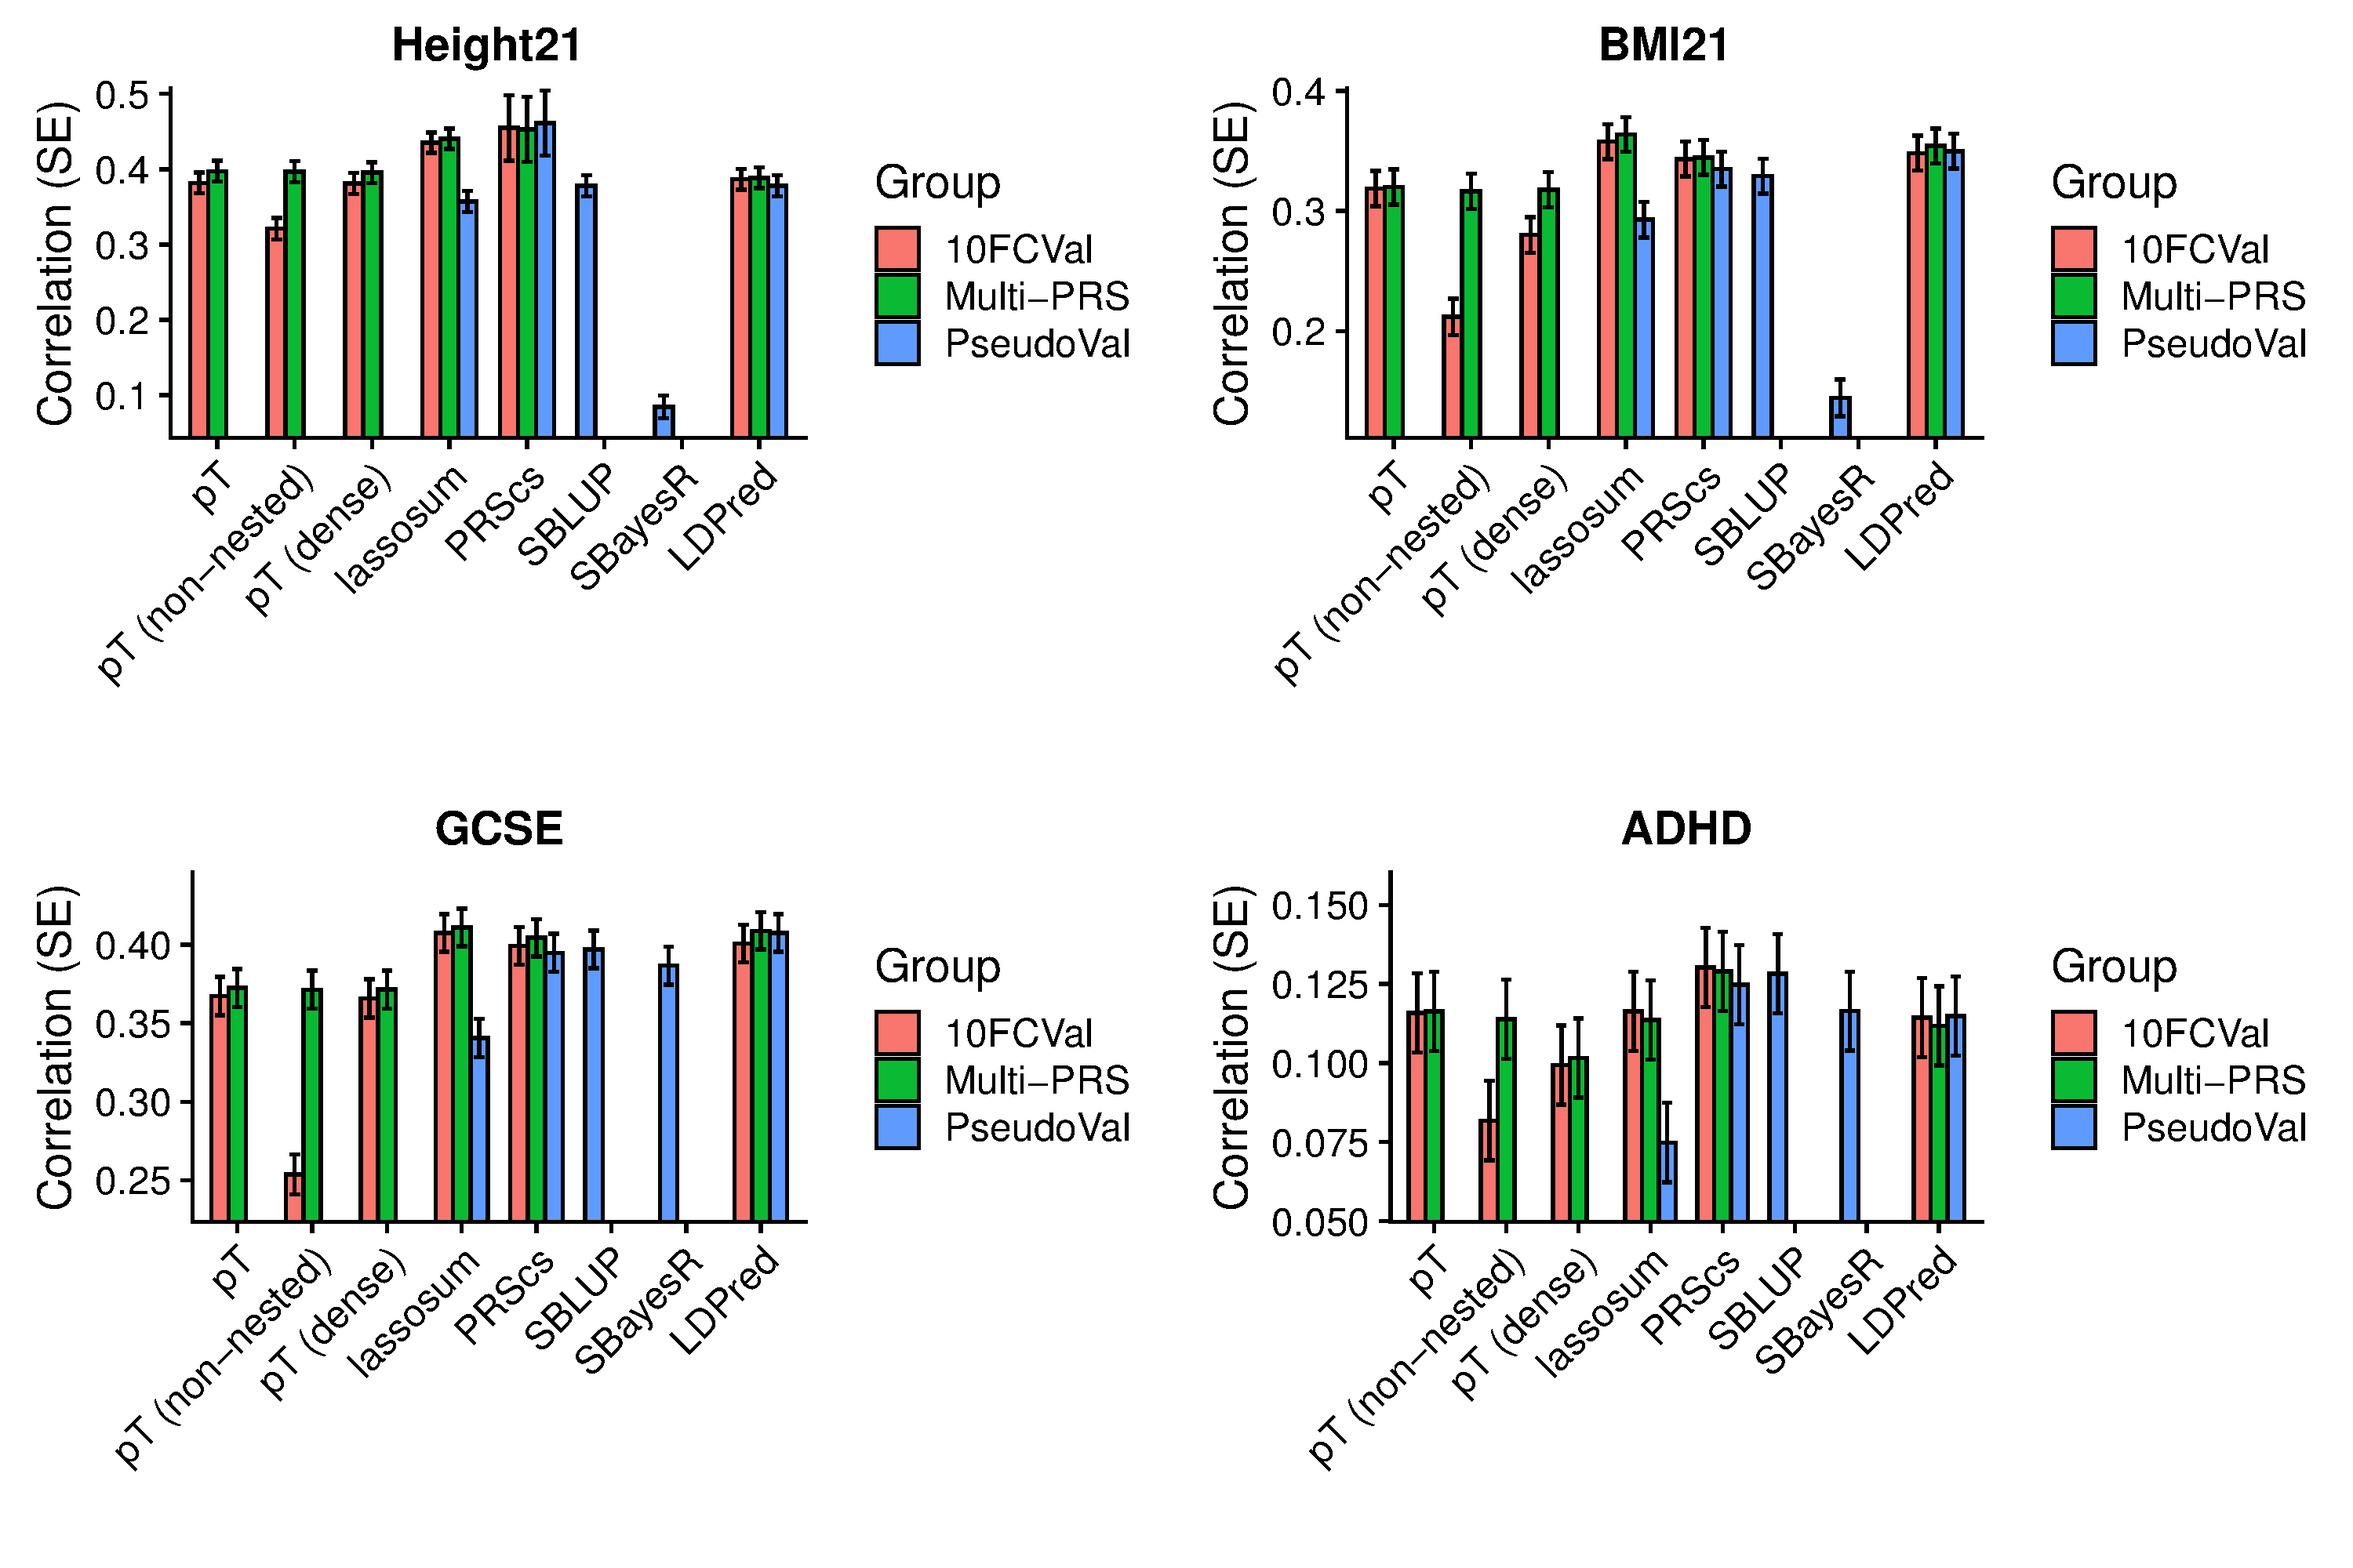
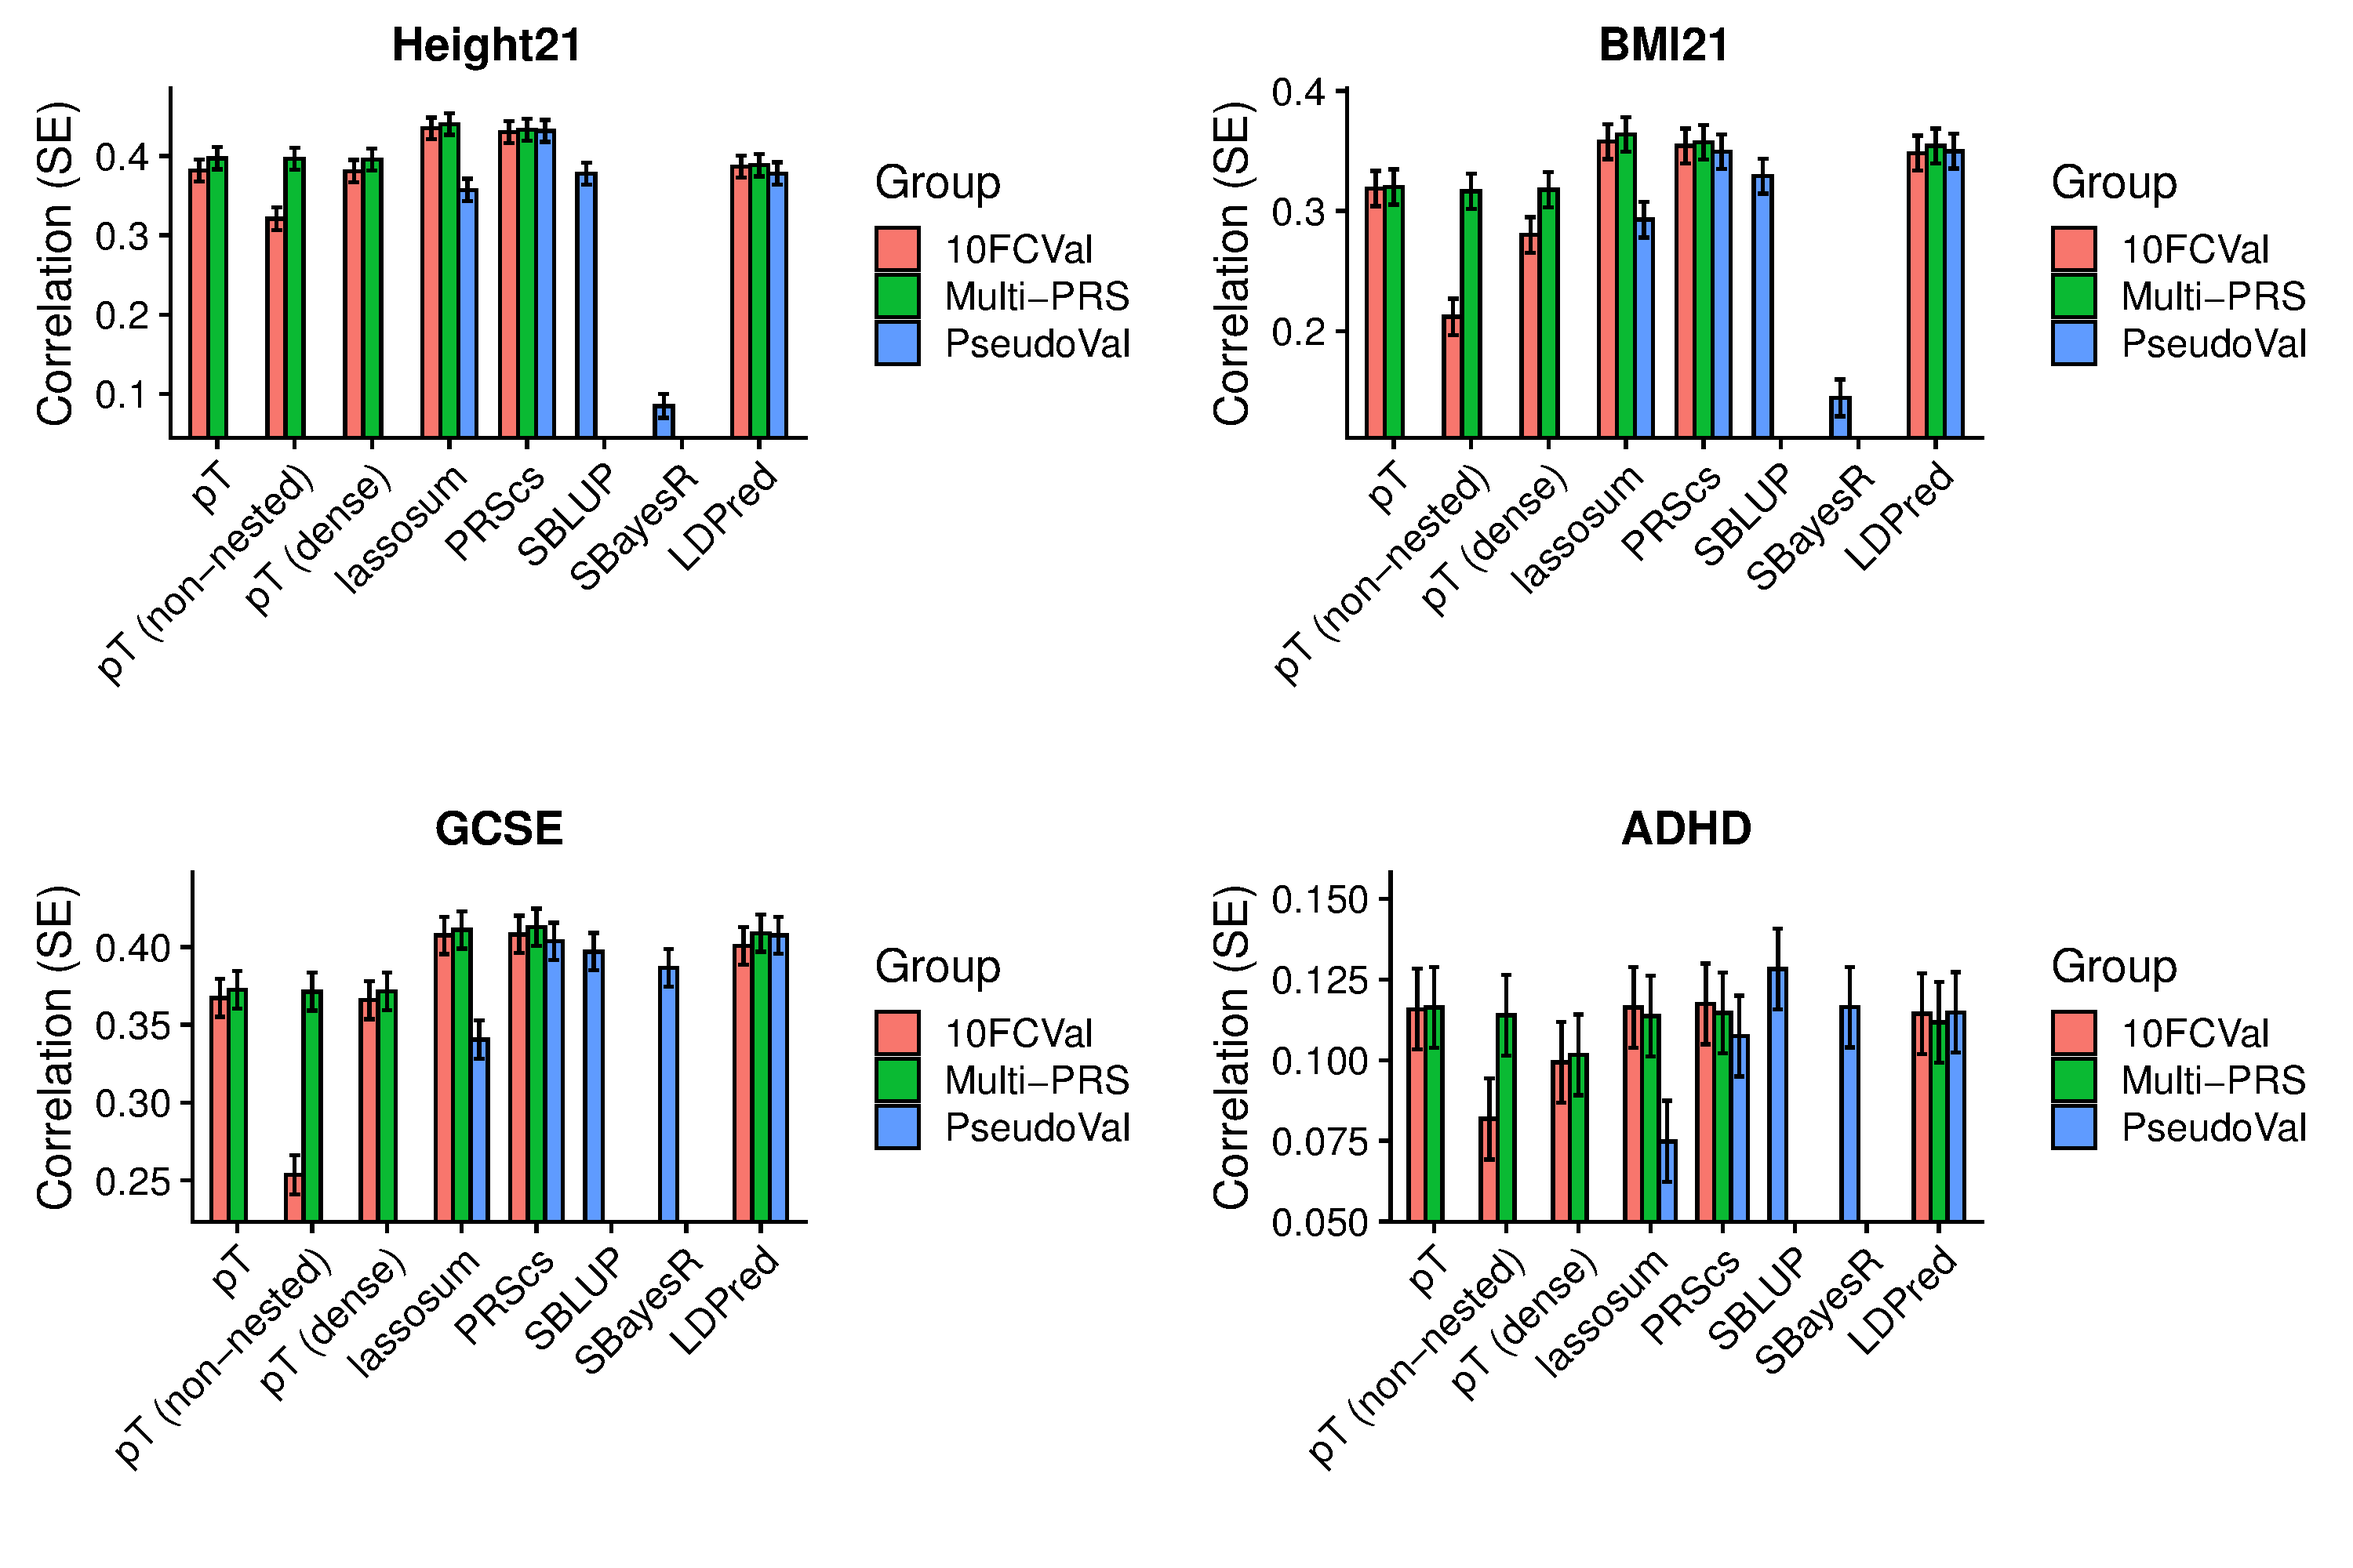
Update

diff --git a/Determine_optimal_polygenic_scoring_approach.html b/Determine_optimal_polygenic_scoring_approach.html
@@ -1091,22 +1091,7 @@ for i in $(seq 1 9);do
     --pheno_name ${gwas_i} \
     --output ${UKBB_output}/PRS_for_comparison/1KG_ref/PRScs/${gwas_i}/UKBB.subset.w_hm3.${gwas_i}
 done
-
-# Calculate polygenic scores
-for i in $(seq 1 9);do
-  pheno_i=$(echo ${pheno} | cut -f ${i} -d &#39; &#39;)
-  gwas_i=$(echo ${gwas} | cut -f ${i} -d &#39; &#39;)
-
-  sbatch -n 1 --mem 10G -p brc,shared -J PRScs /users/k1806347/brc_scratch/Software/Rscript.sh /users/k1806347/brc_scratch/Software/MyGit/GenoPred/Scripts/Scaled_polygenic_scorer_PRScs/Scaled_polygenic_scorer_PRScs.R \
-    --target_plink_chr ${UKBB_output}/Genotype/Harmonised/UKBB.w_hm3.QCd.AllSNP.chr \
-    --target_keep ${UKBB_output}/Phenotype/PRS_comp_subset/UKBB.${pheno_i}.txt \
-    --ref_score ${UKBB_output}/UKBB_ref/Score_files_for_polygenic_PRScs/${gwas_i}/UKBB.noPheno.EUR.10K.w_hm3.${gwas_i} \
-    --ref_scale ${UKBB_output}/UKBB_ref/Score_files_for_polygenic_PRScs/${gwas_i}/UKBB.noPheno.EUR.10K.w_hm3.${gwas_i}.EUR.scale \
-    --ref_freq_chr ${UKBB_output}/UKBB_ref/genotype/UKBB.noPheno.EUR.10K.chr \
-    --plink ${plink1_9} \
-    --pheno_name ${gwas_i} \
-    --output ${UKBB_output}/PRS_for_comparison/UKBB_ref/PRScs/${gwas_i}/UKBB.subset.w_hm3.${gwas_i}
-done</code></pre>
+</code></pre>
 </details>
 <details>
 <p><summary>SBLUP</summary></p>
@@ -1433,19 +1418,6 @@ sbatch -n 1 --mem 10G -p brc,shared -J PRScs /users/k1806347/brc_scratch/Softwar
   --plink ${plink1_9} \
   --pheno_name ${gwas} \
   --output ${TEDS_output_dir}/PolygenicScores_PRScs/EUR/${gwas}/TEDS.w_hm3.${gwas}.EUR
-done
-
-# Calculate scores using the UKBB reference
-for gwas in $(echo HEIG03 EDUC03 ADHD04 BODY11);do
-sbatch -n 1 --mem 10G -p brc,shared -J PRScs /users/k1806347/brc_scratch/Software/Rscript.sh /users/k1806347/brc_scratch/Software/MyGit/GenoPred/Scripts/Scaled_polygenic_scorer_PRScs/Scaled_polygenic_scorer_PRScs.R \
-  --target_plink_chr ${TEDS_output_dir}/Genotype/Harmonised/TEDS.w_hm3.QCd.AllSNP.chr \
-    --target_keep ${TEDS_output_dir}/Projected_PCs/Ancestry_idenitfier/TEDS.w_hm3.AllAncestry.EUR.keep \
-  --ref_score ${UKBB_output}/UKBB_ref/Score_files_for_polygenic_PRScs/${gwas}/UKBB.noPheno.EUR.10K.w_hm3.${gwas} \
-  --ref_scale ${UKBB_output}/UKBB_ref/Score_files_for_polygenic_PRScs/${gwas}/UKBB.noPheno.EUR.10K.w_hm3.${gwas}.EUR.scale \
-  --ref_freq_chr ${UKBB_output}/UKBB_ref/genotype/UKBB.noPheno.EUR.10K.chr \
-  --plink ${plink1_9} \
-  --pheno_name ${gwas} \
-  --output ${TEDS_output_dir}/UKBB_ref/PolygenicScores_PRScs/EUR/${gwas}/TEDS.w_hm3.${gwas}.EUR
 done
 </code></pre>
 </details>
@@ -1884,17 +1856,6 @@ EOF
 
 done
 
-for i in $(seq 1 9);do
-pheno_i=$(echo ${pheno} | cut -f ${i} -d &#39; &#39;)
-gwas_i=$(echo ${gwas} | cut -f ${i} -d &#39; &#39;)
-
-cat &gt; /users/k1806347/brc_scratch/Analyses/UKBB_outcomes_for_prediction/${pheno_i}/Association_withPRSs/UKBB.w_hm3.UKBB_ref.${gwas_i}.EUR-PRSs_PRScs.predictor_groups &lt;&lt;EOF
-predictors 
-${UKBB_output}/PRS_for_comparison/UKBB_ref/PRScs/${gwas_i}/UKBB.subset.w_hm3.${gwas_i}.PRScs_profiles
-EOF
-
-done
-
 # Derive and evaluate
 pheno=$(echo Depression Intelligence BMI Height T2D CAD IBD MultiScler RheuArth)
 gwas=$(echo DEPR06 COLL01 BODY03 HEIG03 DIAB05 COAD01 CROH01 SCLE02 RHEU01)
@@ -1916,23 +1877,7 @@ sbatch --mem 5G -n 2 -p brc,shared /users/k1806347/brc_scratch/Software/Rscript_
   --outcome_pop_prev ${prev_i} \
   --predictors /users/k1806347/brc_scratch/Analyses/UKBB_outcomes_for_prediction/${pheno_i}/Association_withPRSs/UKBB.w_hm3.${gwas_i}.EUR-PRSs_PRScs.predictor_groups
 done
-
-for i in $(seq 1 9);do
-pheno_i=$(echo ${pheno} | cut -f ${i} -d &#39; &#39;)
-pheno_file_i=$(echo ${pheno_file} | cut -f ${i} -d &#39; &#39;)
-gwas_i=$(echo ${gwas} | cut -f ${i} -d &#39; &#39;)
-prev_i=$(echo ${prev} | cut -f ${i} -d &#39; &#39;)
-
-sbatch --mem 5G -n 2 -p brc,shared /users/k1806347/brc_scratch/Software/Rscript_for_lassosum.sh /users/k1806347/brc_scratch/Software/MyGit/GenoPred/Scripts/Model_builder/Model_builder.R \
-  --pheno ${UKBB_output}/Phenotype/PRS_comp_subset/UKBB.${pheno_i}.txt \
-  --keep /users/k1806347/brc_scratch/Analyses/UKBB_outcomes_for_prediction/ukb18177_glanville_post_qc_id_list.UpdateIDs.fam \
-  --out /users/k1806347/brc_scratch/Analyses/UKBB_outcomes_for_prediction/${pheno_i}/Association_withPRSs/UKBB.w_hm3.UKBB_ref.${gwas_i}.EUR-PRSs_PRScs \
-  --n_core 1 \
-  --compare_predictors T \
-  --assoc T \
-  --outcome_pop_prev ${prev_i} \
-  --predictors /users/k1806347/brc_scratch/Analyses/UKBB_outcomes_for_prediction/${pheno_i}/Association_withPRSs/UKBB.w_hm3.UKBB_ref.${gwas_i}.EUR-PRSs_PRScs.predictor_groups
-done</code></pre>
+</code></pre>
 </details>
 <details>
 <p><summary>SBLUP</summary></p>
@@ -2472,11 +2417,6 @@ predictors
 /users/k1806347/brc_scratch/Data/TEDS/PolygenicScores_PRScs/EUR/${gwas_i}/TEDS.w_hm3.${gwas_i}.EUR.PRScs_profiles
 EOF
 
-cat &gt; /users/k1806347/brc_scratch/Analyses/TEDS_outcomes_for_prediction/${pheno_i}/Association_withPRSs/TEDS.w_hm3.UKBB_ref.${gwas_i}.EUR-PRSs_PRScs.predictor_groups &lt;&lt;EOF
-predictors 
-/users/k1806347/brc_scratch/Data/TEDS/UKBB_ref/PolygenicScores_PRScs/EUR/${gwas_i}/TEDS.w_hm3.${gwas_i}.EUR.PRScs_profiles
-EOF
-
 done
 
 # Derive and evaluate
@@ -2498,22 +2438,6 @@ sbatch --mem 10G -n 2 -p brc,shared /users/k1806347/brc_scratch/Software/Rscript
 --assoc T \
 --outcome_pop_prev ${prev_i} \
 --predictors /users/k1806347/brc_scratch/Analyses/TEDS_outcomes_for_prediction/${pheno_i}/Association_withPRSs/TEDS.w_hm3.${gwas_i}.EUR-PRSs_PRScs.predictor_groups
-done
-
-for i in $(seq 1 4);do
-pheno_i=$(echo ${pheno} | cut -f ${i} -d &#39; &#39;)
-gwas_i=$(echo ${gwas} | cut -f ${i} -d &#39; &#39;)
-prev_i=$(echo ${prev} | cut -f ${i} -d &#39; &#39;)
-
-sbatch --mem 10G -n 2 -p brc,shared /users/k1806347/brc_scratch/Software/Rscript_for_lassosum.sh /users/k1806347/brc_scratch/Software/MyGit/GenoPred/Scripts/Model_builder/Model_builder.R \
---pheno /users/k1806347/brc_scratch/Data/TEDS/Phenotypic/Derived_outcomes/TEDS_${pheno_i}.txt \
---keep /users/k1806347/brc_scratch/Data/TEDS/Projected_PCs/Ancestry_idenitfier/TEDS.w_hm3.AllAncestry.EUR.keep \
---out /users/k1806347/brc_scratch/Analyses/TEDS_outcomes_for_prediction/${pheno_i}/Association_withPRSs/TEDS.w_hm3.UKBB_ref.${gwas_i}.EUR-PRSs_PRScs \
---n_core 2 \
---compare_predictors T \
---assoc T \
---outcome_pop_prev ${prev_i} \
---predictors /users/k1806347/brc_scratch/Analyses/TEDS_outcomes_for_prediction/${pheno_i}/Association_withPRSs/TEDS.w_hm3.UKBB_ref.${gwas_i}.EUR-PRSs_PRScs.predictor_groups
 done
 </code></pre>
 </details>
@@ -4315,22 +4239,22 @@ n
 <td align="left">Height21</td>
 <td align="left">PRScs</td>
 <td align="left">10FCVal</td>
-<td align="left">0.455 (0.043)</td>
-<td align="left">0.531 (0.083)</td>
+<td align="left">0.43 (0.014)</td>
+<td align="left">0.432 (0.027)</td>
 </tr>
 <tr class="odd">
 <td align="left">Height21</td>
 <td align="left">PRScs</td>
 <td align="left">PseudoVal</td>
-<td align="left">0.461 (0.043)</td>
-<td align="left">0.504 (0.085)</td>
+<td align="left">0.432 (0.014)</td>
+<td align="left">0.441 (0.027)</td>
 </tr>
 <tr class="even">
 <td align="left">Height21</td>
 <td align="left">PRScs</td>
 <td align="left">Multi-PRS</td>
-<td align="left">0.453 (0.043)</td>
-<td align="left">0.509 (0.084)</td>
+<td align="left">0.433 (0.014)</td>
+<td align="left">0.437 (0.027)</td>
 </tr>
 <tr class="odd">
 <td align="left">Height21</td>
@@ -4434,22 +4358,22 @@ n
 <td align="left">BMI21</td>
 <td align="left">PRScs</td>
 <td align="left">10FCVal</td>
-<td align="left">0.343 (0.015)</td>
-<td align="left">0.366 (0.029)</td>
+<td align="left">0.354 (0.014)</td>
+<td align="left">0.323 (0.029)</td>
 </tr>
 <tr class="even">
 <td align="left">BMI21</td>
 <td align="left">PRScs</td>
 <td align="left">PseudoVal</td>
-<td align="left">0.335 (0.015)</td>
-<td align="left">0.364 (0.029)</td>
+<td align="left">0.35 (0.015)</td>
+<td align="left">0.307 (0.029)</td>
 </tr>
 <tr class="odd">
 <td align="left">BMI21</td>
 <td align="left">PRScs</td>
 <td align="left">Multi-PRS</td>
-<td align="left">0.345 (0.015)</td>
-<td align="left">0.37 (0.029)</td>
+<td align="left">0.357 (0.014)</td>
+<td align="left">0.32 (0.029)</td>
 </tr>
 <tr class="even">
 <td align="left">BMI21</td>
@@ -4553,22 +4477,22 @@ n
 <td align="left">GCSE</td>
 <td align="left">PRScs</td>
 <td align="left">10FCVal</td>
-<td align="left">0.399 (0.012)</td>
-<td align="left">0.372 (0.024)</td>
+<td align="left">0.408 (0.012)</td>
+<td align="left">0.336 (0.025)</td>
 </tr>
 <tr class="odd">
 <td align="left">GCSE</td>
 <td align="left">PRScs</td>
 <td align="left">PseudoVal</td>
-<td align="left">0.395 (0.012)</td>
-<td align="left">0.375 (0.024)</td>
+<td align="left">0.404 (0.012)</td>
+<td align="left">0.341 (0.025)</td>
 </tr>
 <tr class="even">
 <td align="left">GCSE</td>
 <td align="left">PRScs</td>
 <td align="left">Multi-PRS</td>
-<td align="left">0.404 (0.012)</td>
-<td align="left">0.379 (0.024)</td>
+<td align="left">0.413 (0.012)</td>
+<td align="left">0.345 (0.025)</td>
 </tr>
 <tr class="odd">
 <td align="left">GCSE</td>
@@ -4672,22 +4596,22 @@ n
 <td align="left">ADHD</td>
 <td align="left">PRScs</td>
 <td align="left">10FCVal</td>
-<td align="left">0.13 (0.012)</td>
-<td align="left">0.149 (0.025)</td>
+<td align="left">0.117 (0.013)</td>
+<td align="left">0.198 (0.025)</td>
 </tr>
 <tr class="even">
 <td align="left">ADHD</td>
 <td align="left">PRScs</td>
 <td align="left">PseudoVal</td>
-<td align="left">0.125 (0.012)</td>
-<td align="left">0.122 (0.025)</td>
+<td align="left">0.108 (0.013)</td>
+<td align="left">0.189 (0.025)</td>
 </tr>
 <tr class="odd">
 <td align="left">ADHD</td>
 <td align="left">PRScs</td>
 <td align="left">Multi-PRS</td>
-<td align="left">0.129 (0.012)</td>
-<td align="left">0.144 (0.025)</td>
+<td align="left">0.115 (0.013)</td>
+<td align="left">0.198 (0.025)</td>
 </tr>
 <tr class="even">
 <td align="left">ADHD</td>
